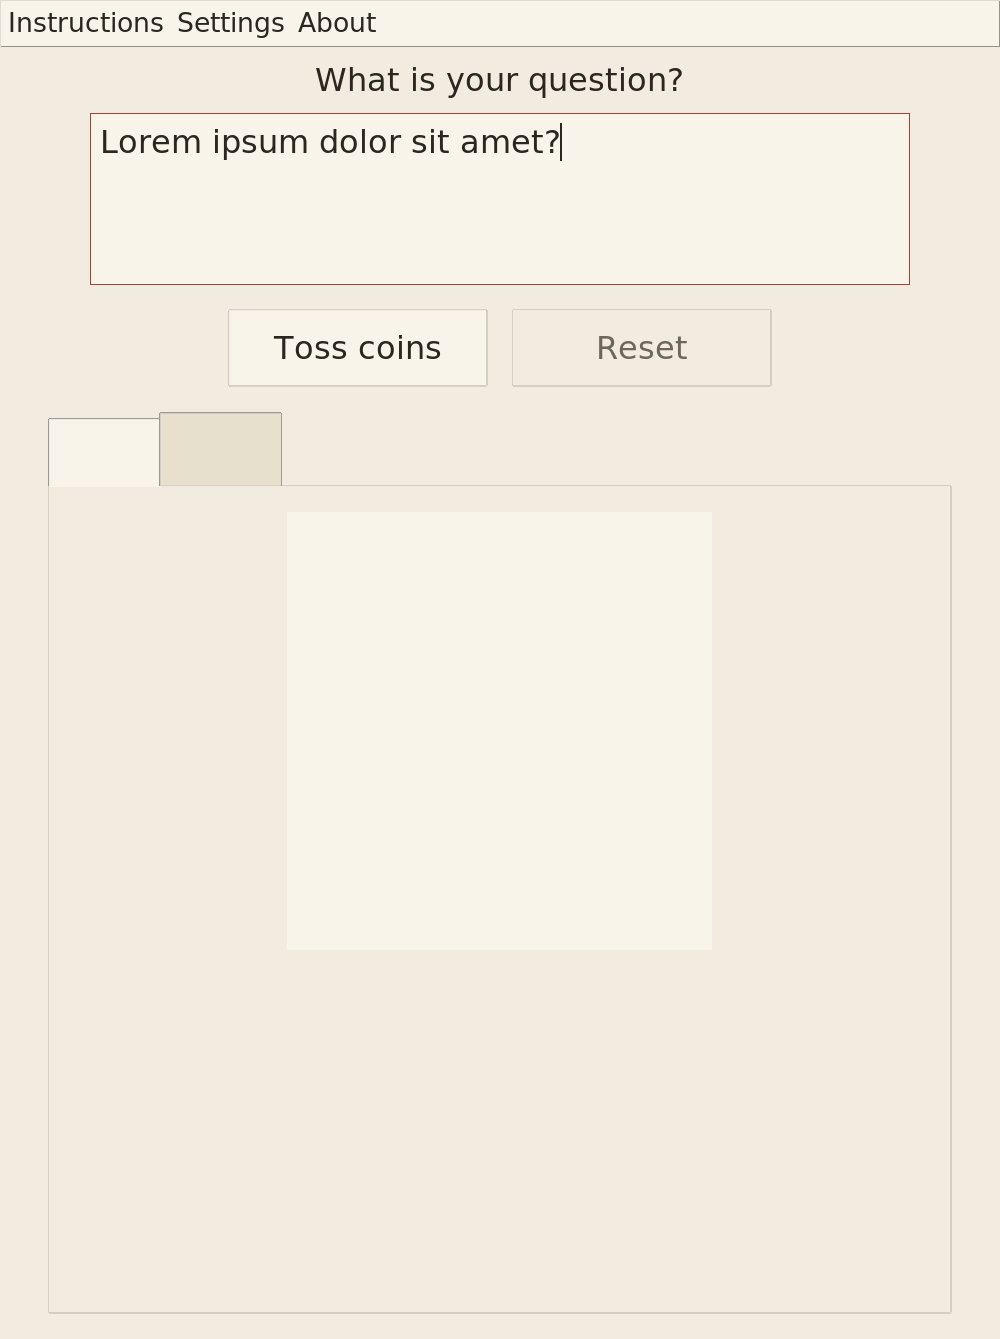
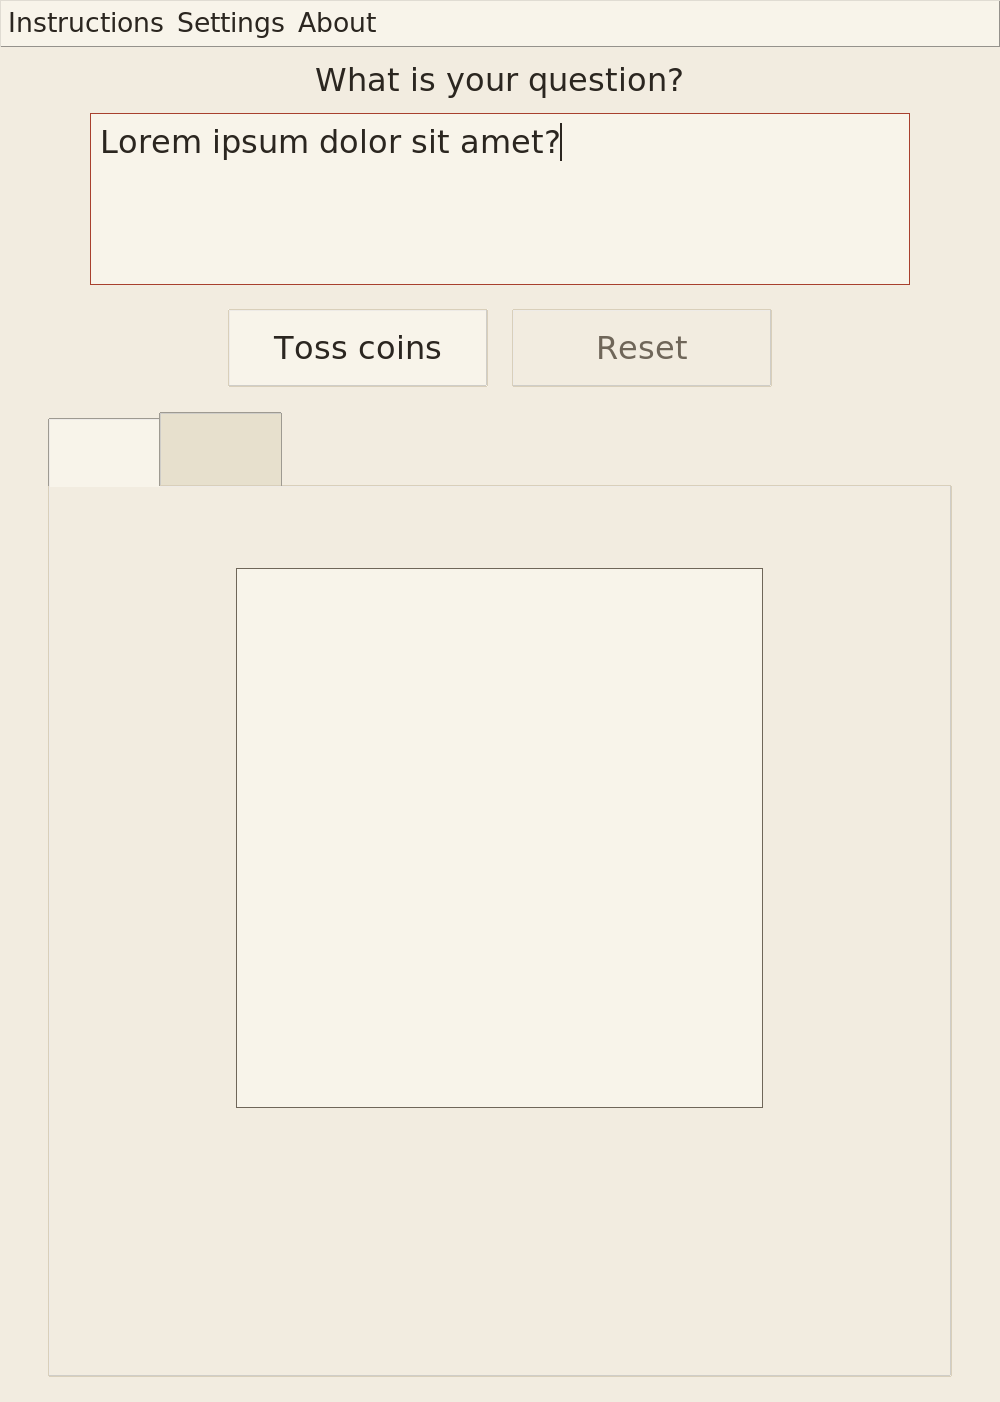
Docs updated for v2.1.0

diff --git a/gui/__init__.py b/gui/__init__.py
@@ -262,7 +262,7 @@ def _show_about():
     footer = 'Copyright (c) 2023-2026 Filip Krnjaković\ngithub.com/filip-kr/three-coins'
     ttk.Label(win, image=icon).pack(in_=frame, pady=scaled(15))
     ttk.Label(win, text='Three Coins', font=('TkDefaultFont', scaled(10), 'bold')).pack(in_=frame)
-    ttk.Label(win, text='v2.0.0', font=('TkDefaultFont', scaled(10))).pack(in_=frame)
+    ttk.Label(win, text='v2.1.0', font=('TkDefaultFont', scaled(10))).pack(in_=frame)
     ttk.Label(win, text='I Ching divination using the 3-coin method',
               font=('TkDefaultFont', scaled(10))).pack(in_=frame, pady=scaled(20))
     ttk.Label(win, text=footer, justify=tk.CENTER,

diff --git a/CHANGES.md b/CHANGES.md
@@ -1,5 +1,31 @@
 # Changelog
 
+## v2.1.0 - 2026-09-07
+
+### Added
+
+- **Selectable hexagram backgrounds.** Settings > Background offers `None` (default) plus five procedural backdrops - Grid, Rings, Hatch, Dots, Bagua - drawn faintly behind the hexagram lines and tinted to the active theme. Remembered between runs.
+- **Selectable line styles.** Settings > Line style offers `Standard` (default), `Round` (rounded ends), and `Ink` (a painted brush stroke with a shallow upward arch). Every style occupies the same footprint, so switching never resizes the hexagram. Remembered between runs.
+- **Live preview on hover.** Hovering an entry in the Theme, Background, or Line style menu previews it on the spot; the preview reverts if the menu closes without a pick, and commits when one is clicked.
+- **Framed hexagram.** The hexagram now sits in a thin bordered panel instead of floating - larger and higher in the tab than before - and stays put regardless of how long the hexagram's name is.
+- **Word wrap in the question field.** Long lines and over-long words now wrap instead of scrolling out of view.
+- **Ctrl+A selects all** in the question field (previously Tk's default "move cursor to line start").
+
+### Changed
+
+- Hexagram-name font is slightly smaller so the longest names (e.g. "Advance of Consciousness") fit on one line without wrapping.
+- Persistent settings now also store `background` and `line_style` alongside `width`/`height`/`theme` in `settings.json`.
+- About dialog now shows `v2.1.0`.
+
+### Internal
+
+- New `gui/background.py` and `gui/linestyle.py` modules, each a small self-contained drawing + persisted-state unit.
+- A single `_PreviewMenu` class now drives the Theme, Background, and Line style menus (hover preview, revert-on-close, commit), replacing three near-identical implementations.
+- `gui/output.py` groups the per-tab widgets into one `_Tab` record in a `{'true', 'reverse'}` dict, replacing ten module-level globals and the four-argument threading through the draw helpers.
+- `gui` exposes one `set_hook(name, fn)` registry instead of four separate `set_*_hook` functions; a `_modal()` helper builds the Instructions/About dialogs.
+- `three_coins/__main__.py` event handlers moved from nested closures to module functions; `HexagramSession.count` is now a derived property.
+- Codebase-wide comment pass (trimmed verbose/redundant comments) and a `ruff` cleanup (`typing.Callable` -> `collections.abc.Callable`, unused unpack).
+
 ## v2.0.0 - 2026-08-22
 
 ### Added

diff --git a/README.md b/README.md
@@ -41,7 +41,7 @@ sha256sum -c three_coins_vX.X.X.sha256
 
 ### Settings
 
-Resolution and theme preferences are saved to `~/.config/three-coins/settings.json` (or under `$XDG_CONFIG_HOME/three-coins/` instead, if that environment variable is set).
+Resolution, theme, hexagram background, and line-style preferences are saved to `~/.config/three-coins/settings.json` (or under `$XDG_CONFIG_HOME/three-coins/` instead, if that environment variable is set).
 
 <br>
 
